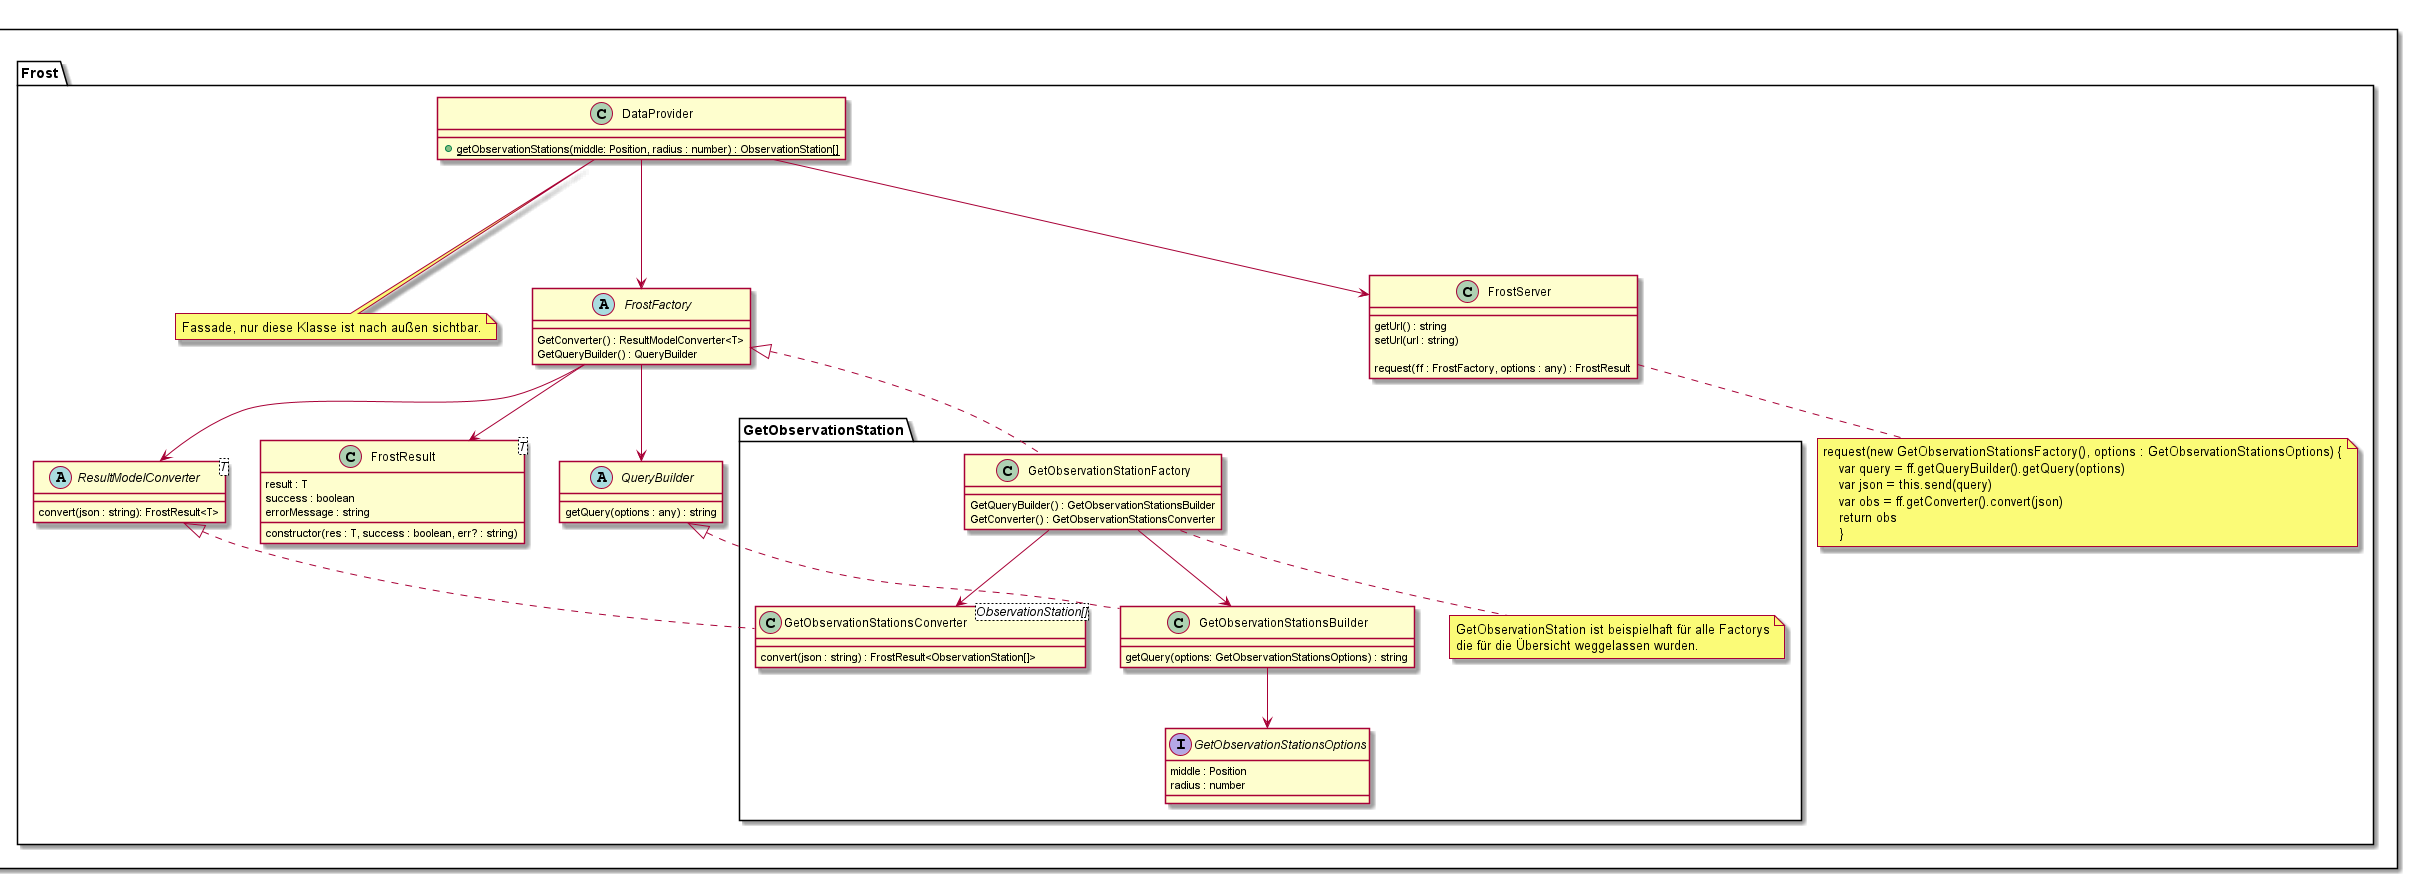
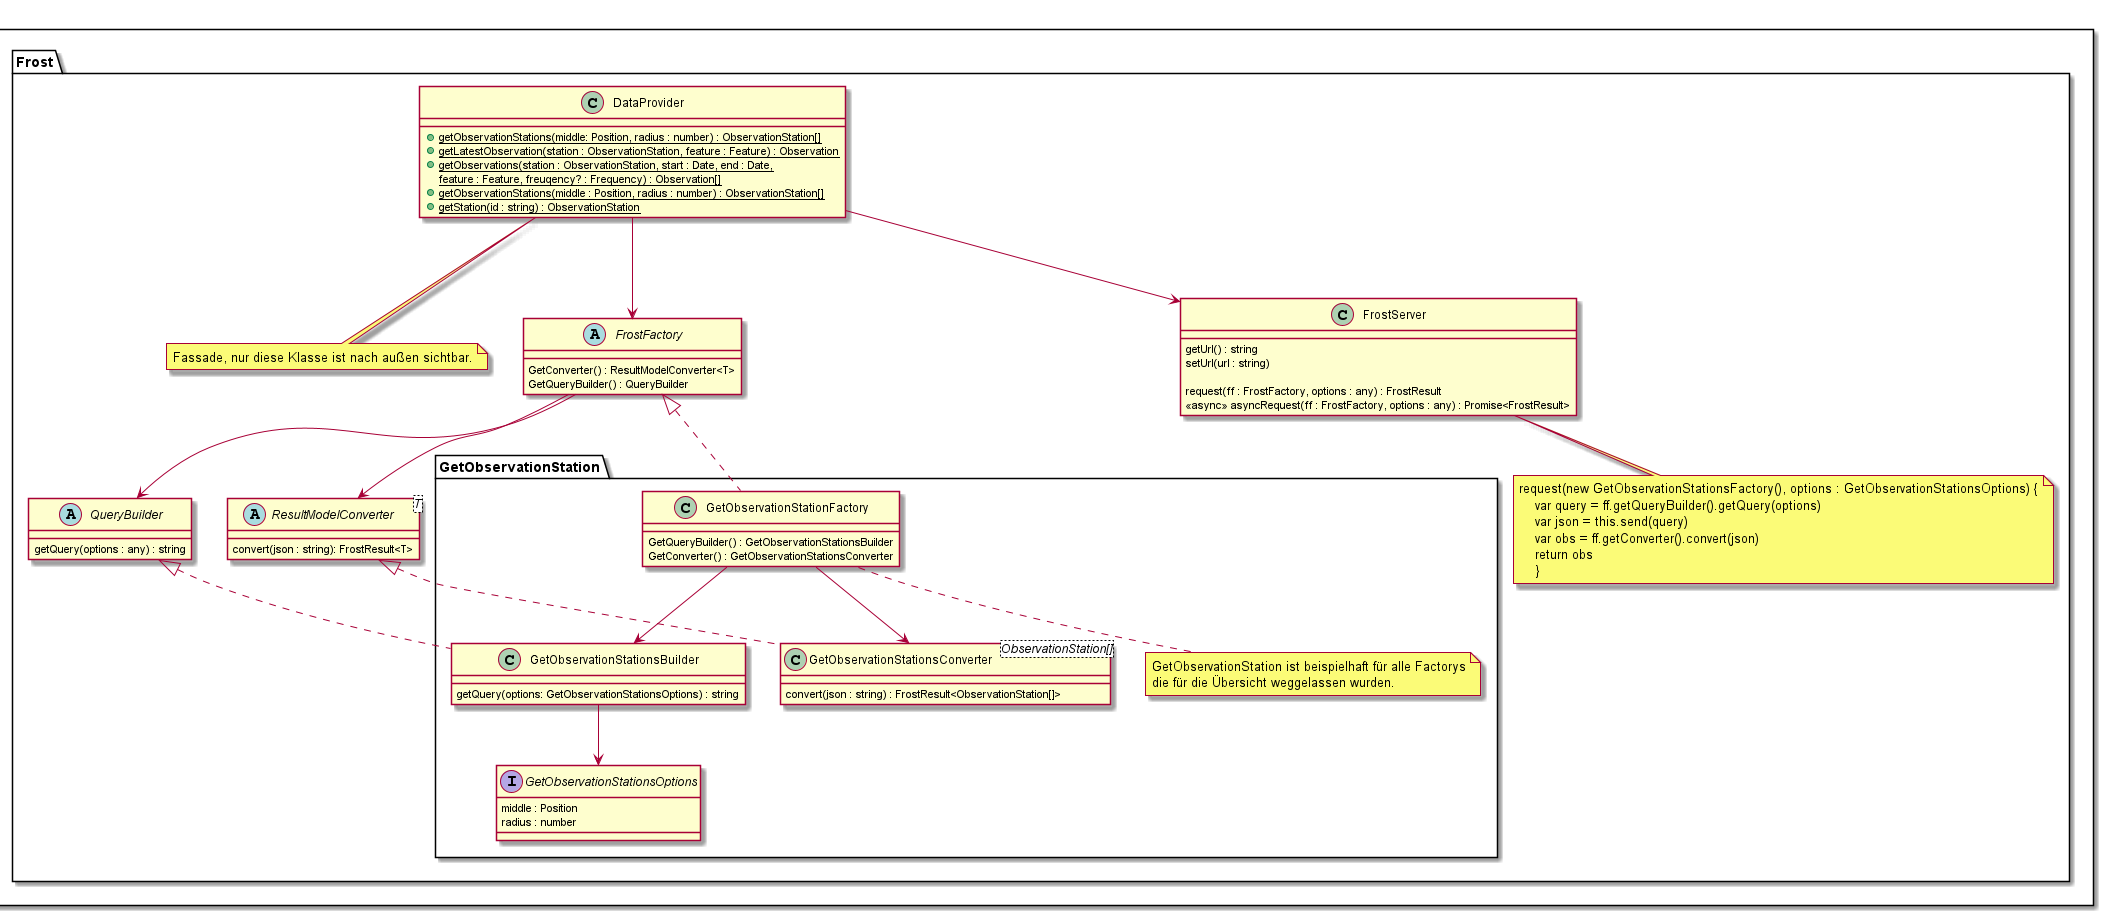
Update PDF diagrams

Changed region(s): [[0.0, 0.0307, 0.9991, 1.0], [0.4371, 0.2457, 0.4683, 0.2765]]

diff --git a/Entwurf/Entwurfsdokument/chapters/packages/Controller.tex b/Entwurf/Entwurfsdokument/chapters/packages/Controller.tex
@@ -30,6 +30,8 @@
         \item \texttt{<<static>> getObservationStations(middle: Position,
         \\ radius : number) : ObservationStation[]}
         \\ Alle Messstationen die maximal \emph{radius} Grad Abstand von \emph{middle} haben.
+        \item \texttt{<<static>> getStation(id) : ObservationStation}
+        \\ Die Messstation mit Id \emph{id}.
     \end{itemize}
 \end{Class}
 
@@ -212,6 +214,58 @@
     \begin{itemize}
         \item \texttt{middle : Position}
         \item \texttt{radius : number}
+    \end{itemize}
+\end{Class}
+
+\begin{Class}{Converter implements ResultModelConverter}
+
+    \textbf{Methoden}
+    \begin{itemize}
+        \item \texttt{convert(json : string) : FrostResult<Output>}
+        \\ \emph{json}: Eine Antwort vom FROST-Server auf ein Query aus \emph{Builder}.
+        \\ Es wird versucht diese Antwort in \emph{Output} umzuwandeln.
+        Die Rückgabe ist dann new FrostResult(\emph{output}, true)
+        \\ Schlägt dies fehl wird new FrostResult(null, false, \emph{errorMessage}) zurückgegeben.
+    \end{itemize}
+\end{Class}
+
+\paragraph{GetStation}\mbox{}\\
+
+\begin{Class}{GetStationFactory implements FrostFactory}
+    \textbf{Methoden}
+    \begin{itemize}
+        \item \texttt{GetConverter() : GetStationConverter}
+        \\ Eine neue Instanz eines GetStationConverter
+        \item \texttt{GetQueryBuilder() : GetStationBuilder}
+        \\ Eine neue Instanz eines GetStationBuilder.
+    \end{itemize}
+\end{Class}
+
+\begin{Class}{GetStationBuilder implements QueryBuilder}
+
+    \textbf{Methoden}
+    \begin{itemize}
+        \item \texttt{getQuery(options : GetStationOptions)}
+        \\ Erstellt eine FROST-Query mit folgendem Effekt:
+        \\ Gibt die Messstation mit Id \emph{id} zurück.
+    \end{itemize}
+\end{Class}
+
+\begin{Class}{GetStationConverter implements ResultModelConverter$\langle$ObservationStation$\rangle$}
+
+    \textbf{Methoden}
+    \begin{itemize}
+        \item \texttt{convert(json : string) : FrostResult<ObservationStation>}
+        \\ \emph{json}: Eine Antwort vom FROST-Server auf ein Query aus \emph{GetStationBuilder}.
+        \\ Es wird versucht diese Antwort in \emph{ObservationStation} umzuwandeln.
+        Die Rückgabe ist dann new FrostResult(\emph{output}, true)
+        \\ Schlägt dies fehl wird new FrostResult(null, false, \emph{errorMessage}) zurückgegeben.
+    \end{itemize}
+\end{Class}
+
+\begin{Class}{<<interface>> GetStationOptions}
+    \begin{itemize}
+        \item \texttt{id : string}
     \end{itemize}
 \end{Class}
 
